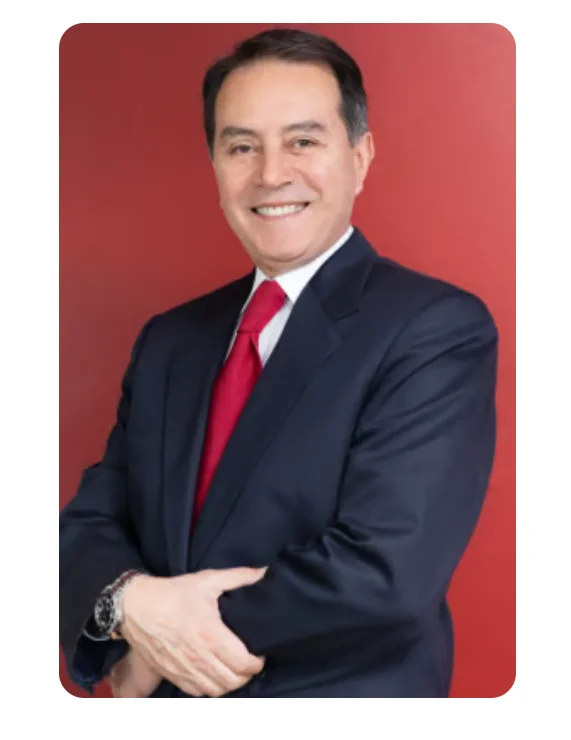
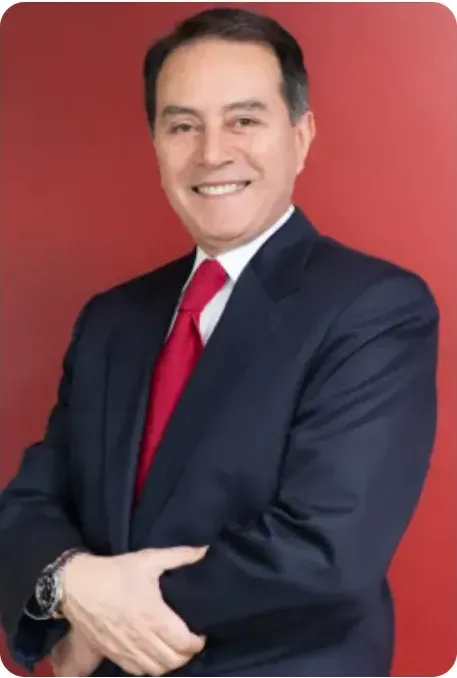
style: crop about-professor image and change slide object-fit to contain

diff --git a/index.css b/index.css
@@ -681,8 +681,9 @@ p {
   display: block;
   width: 100%;
   height: 100%;
-  object-fit: cover;
+  object-fit: contain;
   object-position: center;
+  background: #1a1a2e;
 }
 
 /* Carousel Navigation Buttons */